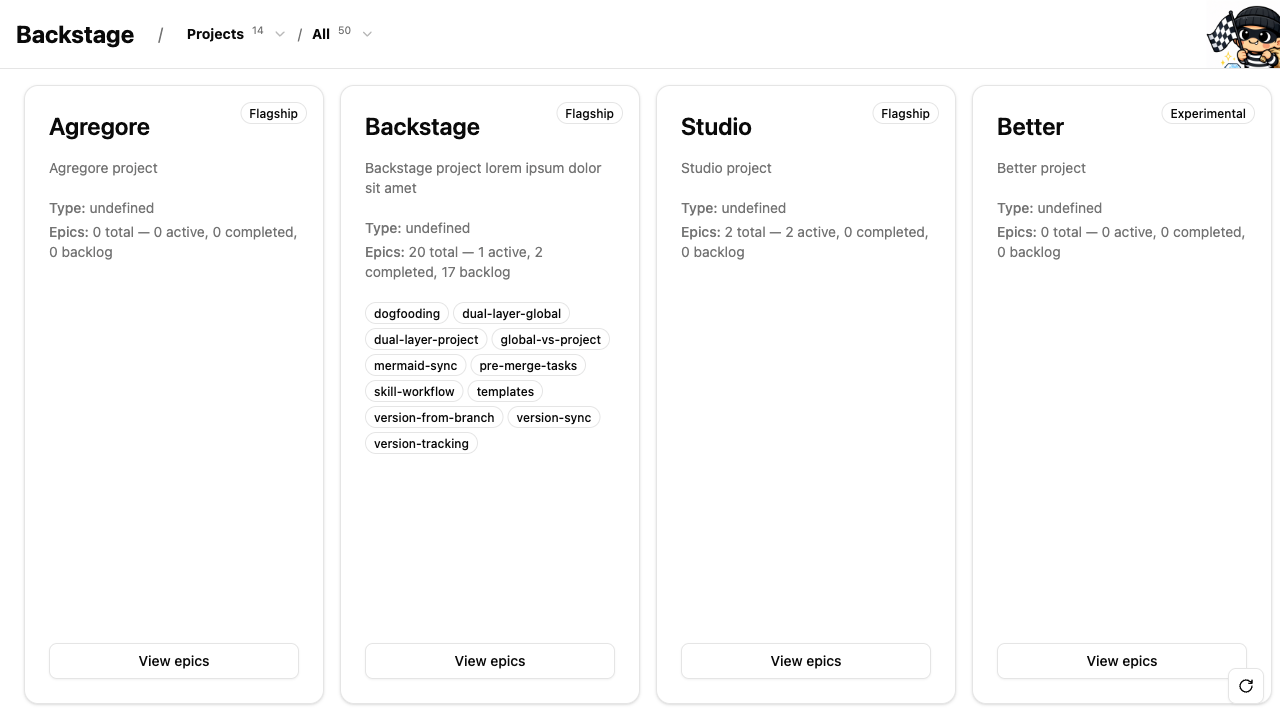
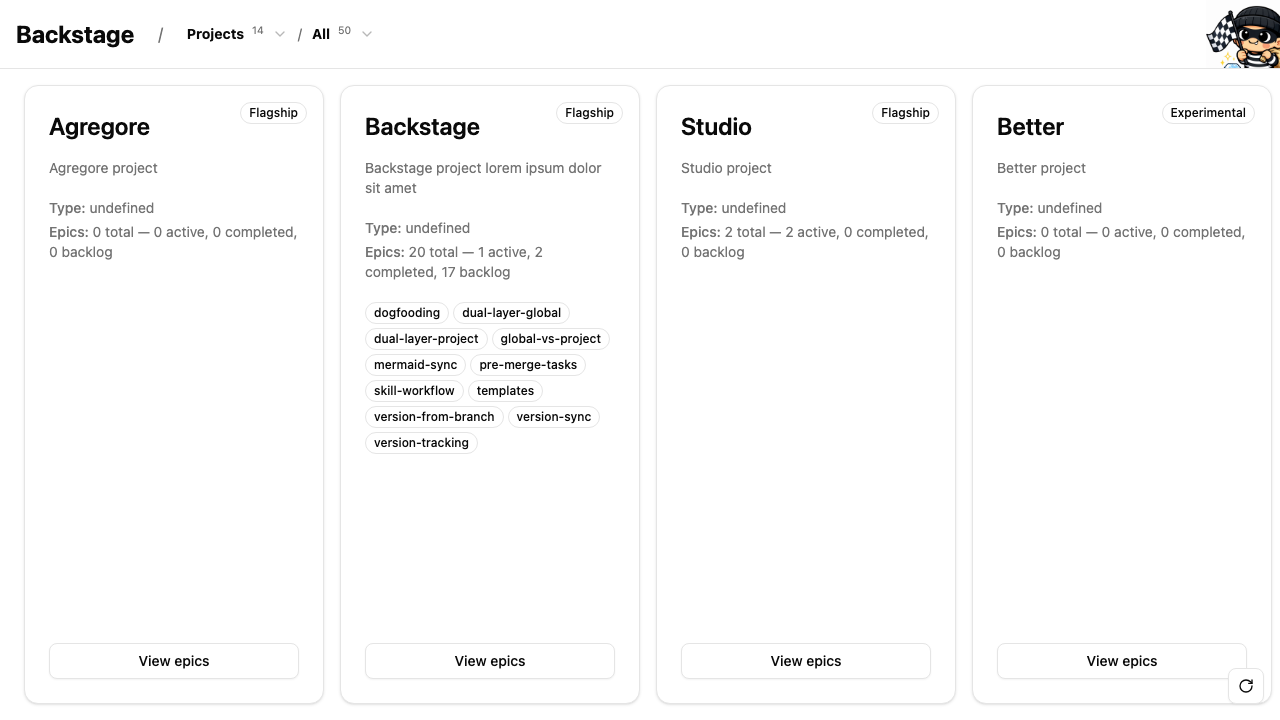
Extract SectionBreadcrumb component (DRY menu logic) - navigation still broken, investigating

diff --git a/app/app/values/page.tsx b/app/app/values/page.tsx
@@ -1,35 +1,8 @@
 "use client"
 
 import { useState, useEffect } from 'react'
-import { useRouter } from 'next/navigation'
-import {
-  Breadcrumb,
-  BreadcrumbItem,
-  BreadcrumbList,
-} from "@/components/ui/breadcrumb"
-import {
-  Select,
-  SelectContent,
-  SelectItem,
-  SelectTrigger,
-  SelectValue,
-} from "@/components/ui/select"
+import { SectionBreadcrumb } from "@/components/SectionBreadcrumb"
 import { ValueCard } from "@/components/ValueCard"
-
-const sections = [
-  { value: "projects", label: "Projects", count: 14 },
-  { value: "checks", label: "Checks", count: 67 },
-  { value: "agents", label: "Agents", count: 8 },
-  { value: "values", label: "Values", count: 20 },
-  { value: "connections", label: "Connections", count: 0 },
-];
-
-const OLD_sections = [
-  { value: "projects", label: "Projects", count: 14 },
-  { value: "checks", label: "Checks", count: 67 },
-  { value: "agents", label: "Agents", count: 8 },
-  { value: "values", label: "Values", count: 20 },
-]
 
 interface ValueUsage {
   global: boolean
@@ -49,8 +22,6 @@ interface Value {
 }
 
 export default function ValuesPage() {
-  const router = useRouter()
-  const [section, setSection] = useState("values")
   const [values, setValues] = useState<Value[]>([])
   const [loading, setLoading] = useState(true)
   const [expandedValue, setExpandedValue] = useState<string | null>(null)
@@ -98,45 +69,13 @@ export default function ValuesPage() {
     }
   }
   
-  const handleSectionChange = (value: string) => {
-    setSection(value)
-    if (value === "projects") router.push("/projects")
-    if (value === "checks") router.push("/checks")
-    if (value === "agents") router.push("/agents")
-    if (value === "values") router.push("/values")
-    if (value === "connections") router.push("/connections")
-  }
-  
-  const currentSection = sections.find(s => s.value === section)
-  
   return (
     <div className="h-screen flex flex-col">
       {/* Fixed breadcrumb */}
       <div className="flex items-center gap-6 border-b bg-background header-with-icon" style={{ padding: 'var(--spacing-unit)' }}>
         <h1 className="text-2xl font-bold">Backstage</h1>
         <span className="text-muted-foreground">/</span>
-        <Breadcrumb>
-          <BreadcrumbList>
-            <BreadcrumbItem>
-              <Select value={section} onValueChange={handleSectionChange}>
-                <SelectTrigger className="justify-start border-0 shadow-none p-0 focus:ring-0 hover:bg-transparent">
-                  <SelectValue>
-                    <span className="font-bold text-foreground">
-                      {currentSection?.label}<sup className="text-muted-foreground font-normal">{currentSection?.count}</sup>
-                    </span>
-                  </SelectValue>
-                </SelectTrigger>
-                <SelectContent position="popper" align="start">
-                  {sections.map((item) => (
-                    <SelectItem key={item.value} value={item.value}>
-                      {item.label}<sup className="text-muted-foreground">{item.count}</sup>
-                    </SelectItem>
-                  ))}
-                </SelectContent>
-              </Select>
-            </BreadcrumbItem>
-          </BreadcrumbList>
-        </Breadcrumb>
+        <SectionBreadcrumb currentSection="values" />
       </div>
       
       {/* Horizontal scroll */}

diff --git a/app/components/SectionBreadcrumb.tsx b/app/components/SectionBreadcrumb.tsx
@@ -1,0 +1,88 @@
+"use client"
+
+import { useRouter, usePathname } from 'next/navigation'
+import {
+  Breadcrumb,
+  BreadcrumbItem,
+  BreadcrumbList,
+} from "@/components/ui/breadcrumb"
+import {
+  Select,
+  SelectContent,
+  SelectItem,
+  SelectTrigger,
+  SelectValue,
+} from "@/components/ui/select"
+
+const sections = [
+  { value: "projects", label: "Projects", path: "/projects", count: 14 },
+  { value: "checks", label: "Checks", path: "/checks", count: 67 },
+  { value: "agents", label: "Agents", path: "/agents", count: 8 },
+  { value: "values", label: "Values", path: "/values", count: 20 },
+  { value: "connections", label: "Connections", path: "/connections", count: 0 },
+];
+
+interface SectionBreadcrumbProps {
+  currentSection: string
+  showSubsection?: boolean
+  subsectionLabel?: string
+  subsectionCount?: number
+}
+
+export function SectionBreadcrumb({ 
+  currentSection, 
+  showSubsection = false,
+  subsectionLabel,
+  subsectionCount
+}: SectionBreadcrumbProps) {
+  const router = useRouter()
+  const pathname = usePathname()
+  
+  const handleSectionChange = (value: string) => {
+    const section = sections.find(s => s.value === value)
+    if (section && section.path !== pathname) {
+      router.push(section.path)
+    }
+  }
+  
+  const current = sections.find(s => s.value === currentSection)
+  
+  return (
+    <Breadcrumb>
+      <BreadcrumbList>
+        <BreadcrumbItem>
+          <Select value={currentSection} onValueChange={handleSectionChange}>
+            <SelectTrigger className="justify-start border-0 shadow-none p-0 focus:ring-0 hover:bg-transparent">
+              <SelectValue>
+                <span className="font-bold text-foreground">
+                  {current?.label}<sup className="text-muted-foreground font-normal">{current?.count}</sup>
+                </span>
+              </SelectValue>
+            </SelectTrigger>
+            <SelectContent position="popper" align="start">
+              {sections.map((item) => (
+                <SelectItem key={item.value} value={item.value}>
+                  {item.label}<sup className="text-muted-foreground">{item.count}</sup>
+                </SelectItem>
+              ))}
+            </SelectContent>
+          </Select>
+        </BreadcrumbItem>
+        
+        {showSubsection && (
+          <>
+            <span className="text-muted-foreground">/</span>
+            <BreadcrumbItem>
+              <span className="font-bold text-foreground">
+                {subsectionLabel}
+                {subsectionCount !== undefined && (
+                  <sup className="text-muted-foreground font-normal">{subsectionCount}</sup>
+                )}
+              </span>
+            </BreadcrumbItem>
+          </>
+        )}
+      </BreadcrumbList>
+    </Breadcrumb>
+  )
+}
